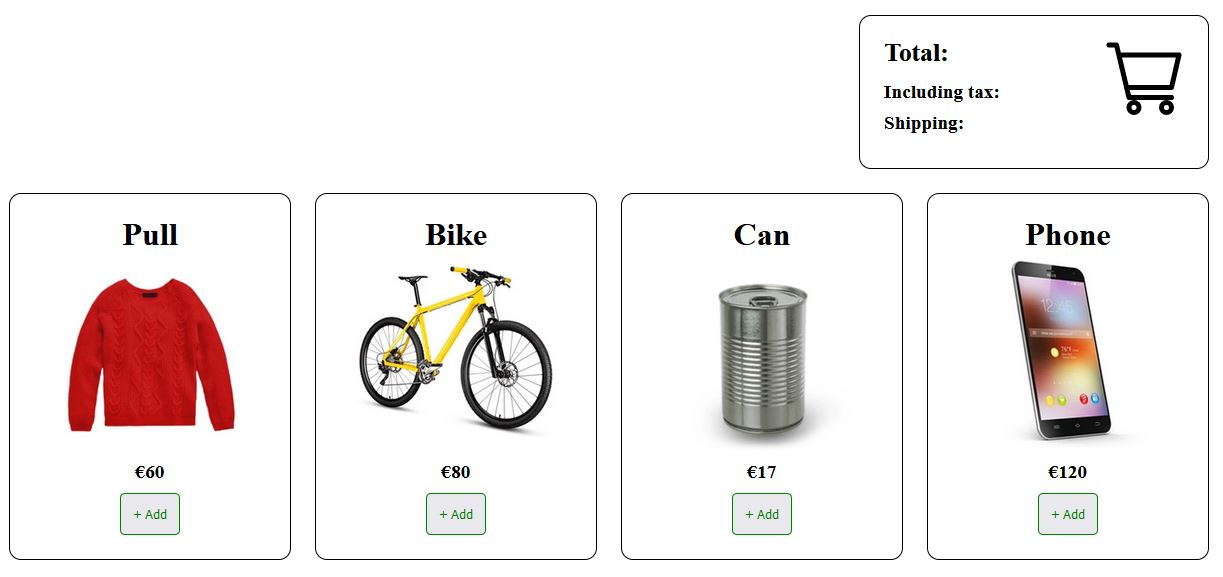
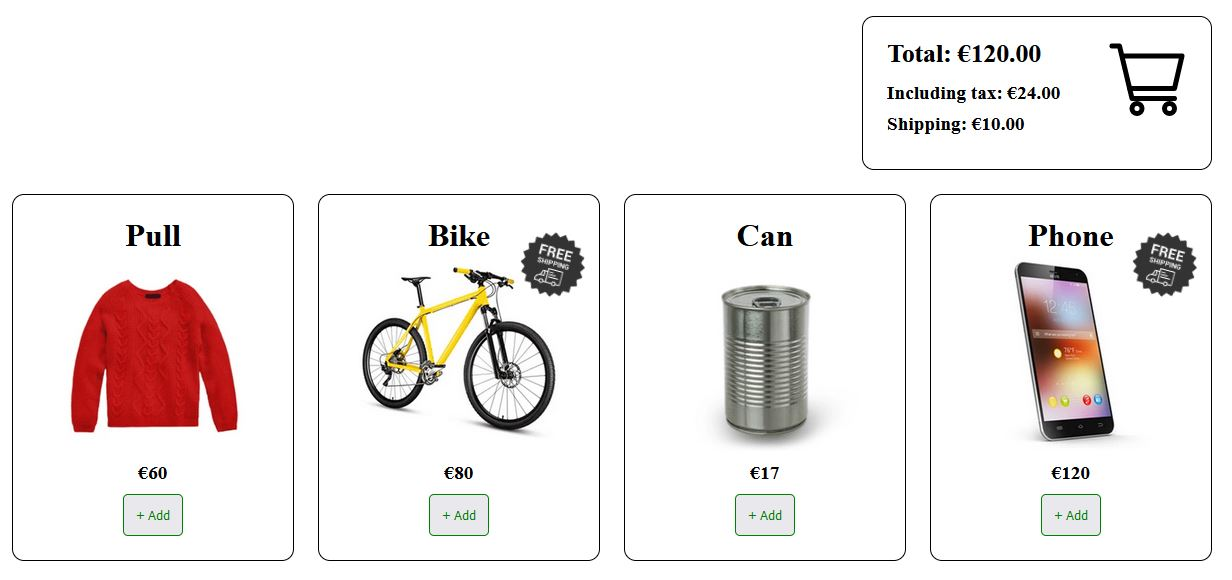
Quick updates + Fix typos

diff --git a/README.md b/README.md
@@ -1,22 +1,21 @@
-# Functional refactoring
+# Functional thinking
 
 The code in `script.js` is structured around global states.
 The goal is to keep the behavior while getting rid of everything that is implicit.
 
 ## Business rules
  
-- Display a "Free Shiping" icon near an item
+- Display a "Free Shipping" icon near an item
 when the price of this item + the current amount of the cart is greater or equal to €200.
 
 - The tax (VAT) is displayed separately and corresponds to 20% of the cart's amount.
 
-- Once an item has been added to the cart, the shipping cost is €10, unless the current amount of the cart is greater or equal to €200.
+- Once an item has been added to the cart, the shipping cost is €10, unless the current amount of the cart is greater or equal to €200 (then it drops to €0).
 
-- Once the shipping is free, the "Free Shipping" icons are hidden
+- Once the shipping is free, the "Free Shipping" icons are hidden.
 
-### Example:
+### Example
 
-- the cart contains contains 1 item priced €120
 - the cart total is €120
 - the tax total is €24
 - the shipping cost is €10
@@ -37,6 +36,6 @@ You can launch the web app with the command:
 `yarn start` or `npm start`
 
 ### Launch e2e test suite
-You can also use the provided e2e test suite to check nothing has been broken during the refactoring:
-First install the dependencies: `yarn` or `npm i`
+You can also use the provided e2e test suite to check nothing has been broken during the refactoring:  
+First install the dependencies: `yarn` or `npm i`  
 Finally run the tests: `yarn test` or `npm t`
